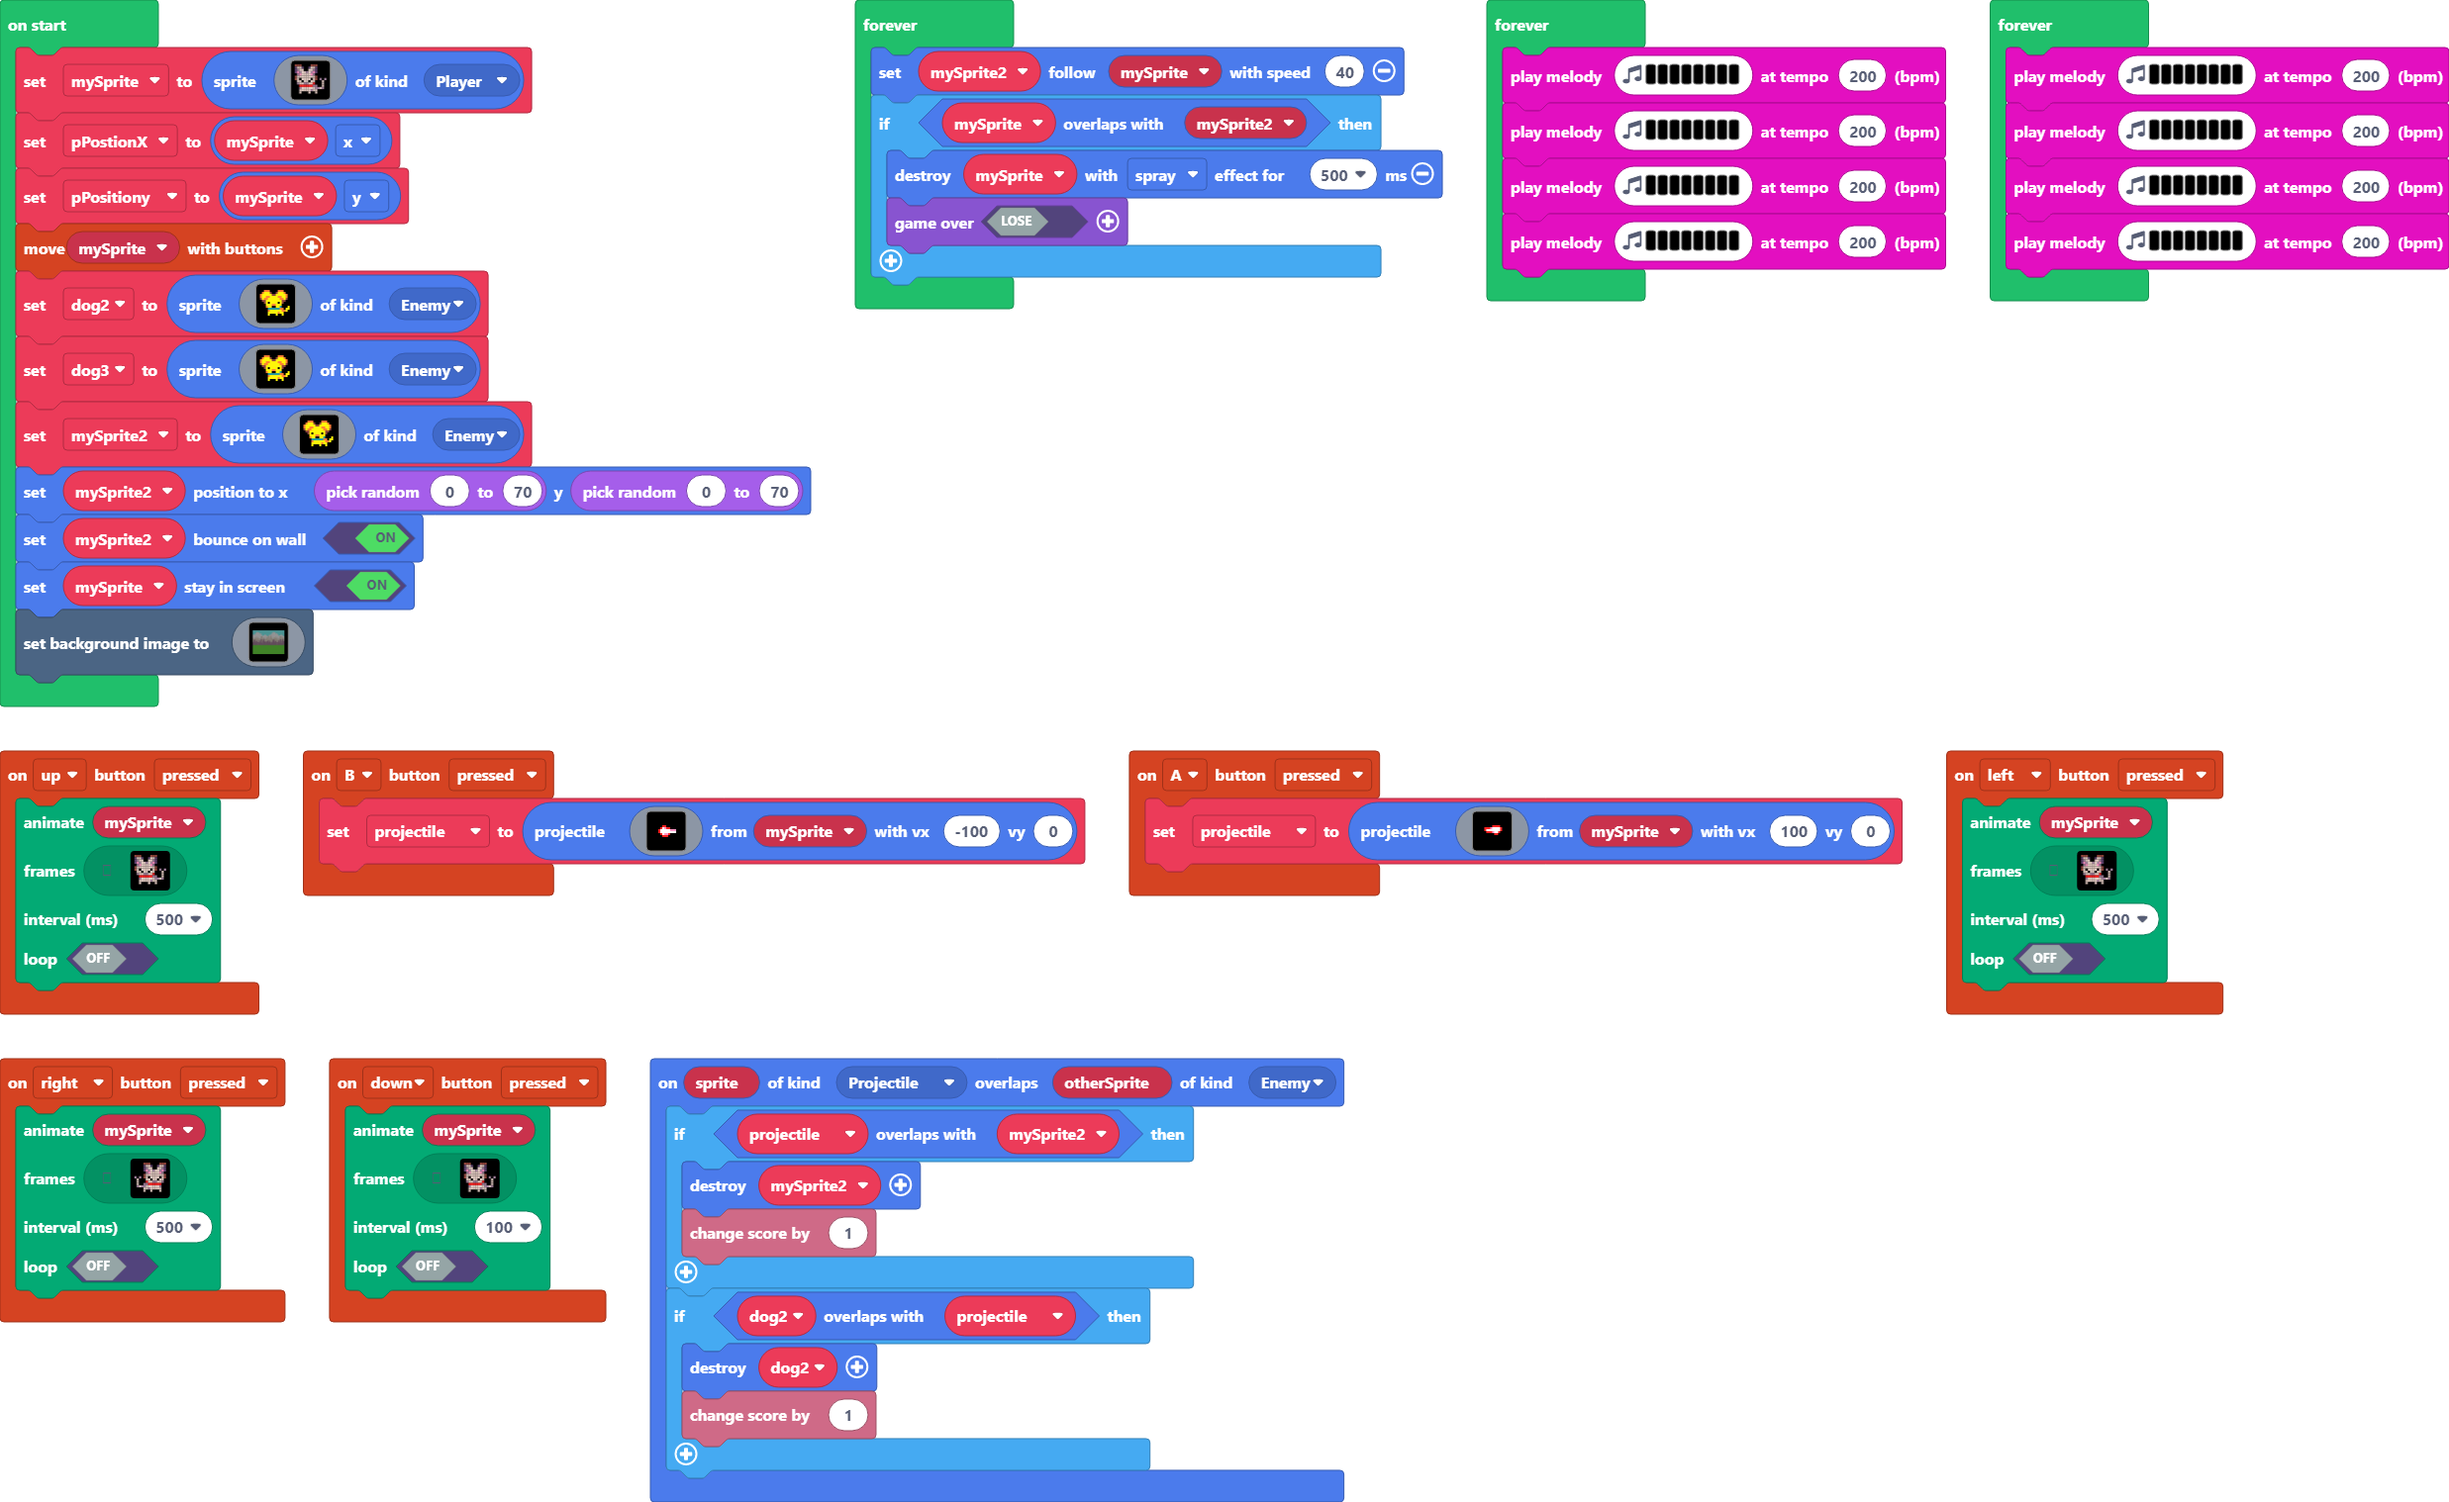
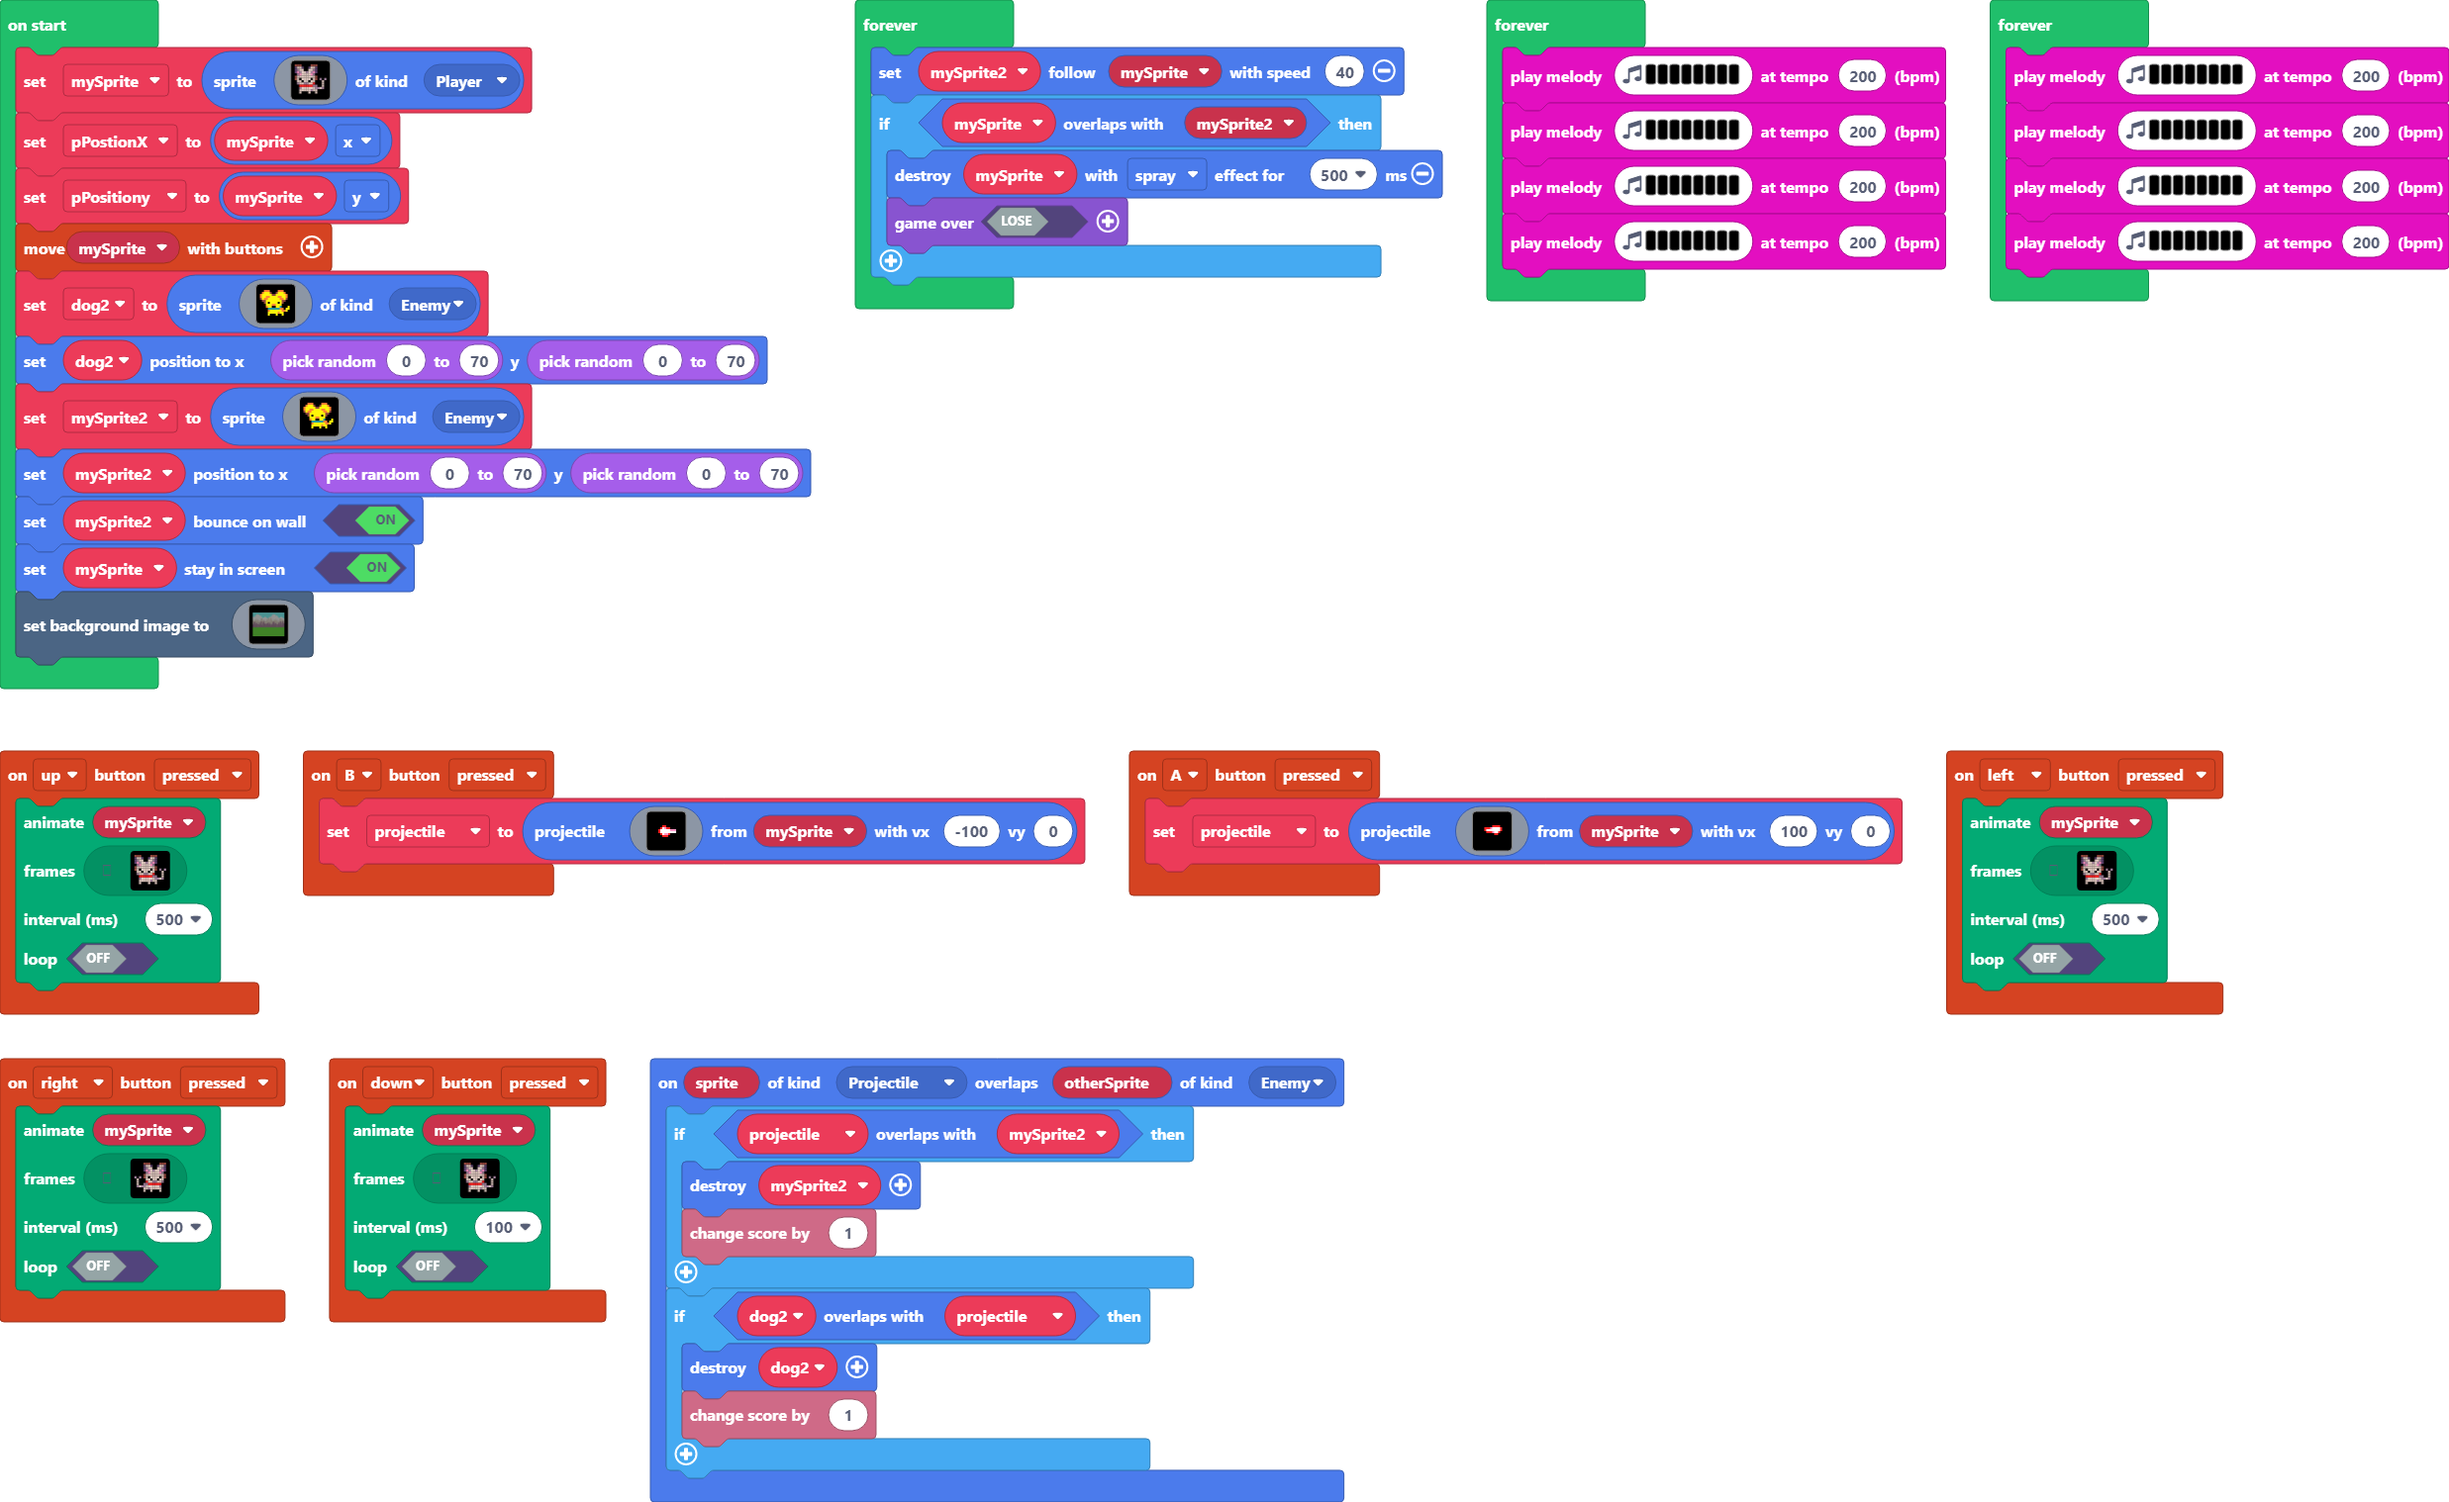
Update main.blocks, main.ts

Changed region(s): [[0.0, 0.2167, 0.3424, 0.4954]]

diff --git a/main.ts b/main.ts
@@ -299,22 +299,7 @@ dog2 = sprites.create(img`
     . . . f 5 f f f 5 f f 5 f . . . 
     . . . f f . . f f . . f f . . . 
     `, SpriteKind.Enemy)
-let dog3 = sprites.create(img`
-    . . 4 4 4 . . . . 4 4 4 . . . . 
-    . 4 5 5 5 e . . e 5 5 5 4 . . . 
-    4 5 5 5 5 5 e e 5 5 5 5 5 4 . . 
-    4 5 5 4 4 5 5 5 5 4 4 5 5 4 . . 
-    e 5 4 4 5 5 5 5 5 5 4 4 5 e . . 
-    . e e 5 5 5 5 5 5 5 5 e e . . . 
-    . . e 5 f 5 5 5 5 f 5 e . . . . 
-    . . f 5 5 5 4 4 5 5 5 f . . f f 
-    . . f 4 5 5 f f 5 5 6 f . f 5 f 
-    . . . f 6 6 6 6 6 6 4 4 f 5 5 f 
-    . . . f 4 5 5 5 5 5 5 4 4 5 f . 
-    . . . f 5 5 5 5 5 4 5 5 f f . . 
-    . . . f 5 f f f 5 f f 5 f . . . 
-    . . . f f . . f f . . f f . . . 
-    `, SpriteKind.Enemy)
+dog2.setPosition(randint(0, 70), randint(0, 70))
 mySprite2 = sprites.create(img`
     . . 4 4 4 . . . . 4 4 4 . . . . 
     . 4 5 5 5 e . . e 5 5 5 4 . . . 
